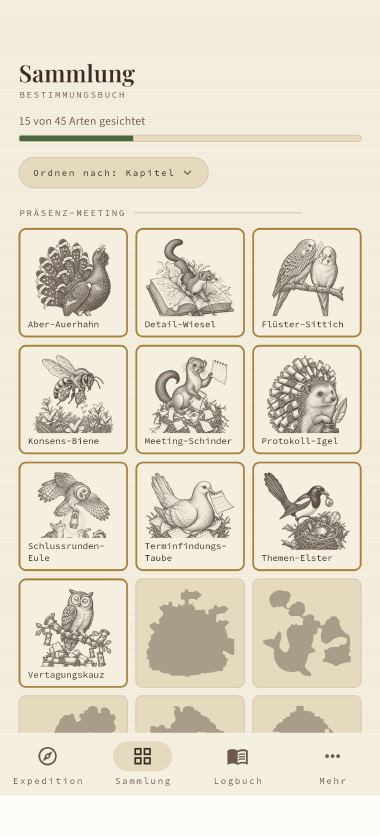
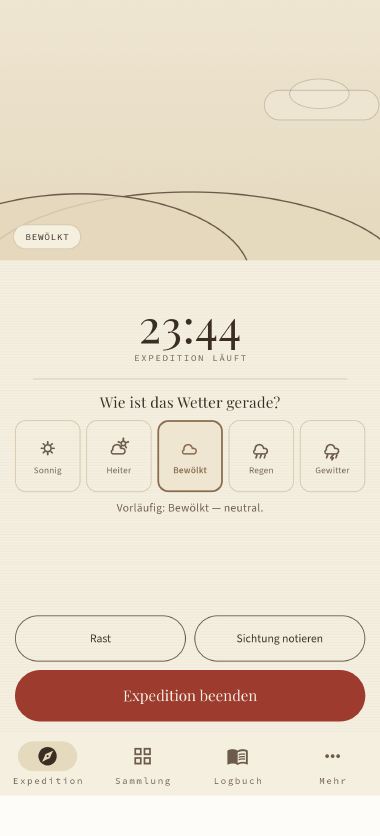
Setze den Text im Blocksatz und zeige alle acht Bildschirmfotos
Das Karussell kommt ohne eine Zeile JavaScript aus: waagerechtes Scrollen mit
Einrastpunkten, darunter Sprungmarken zum Blaettern. Das naechste Bild lugt
herein, damit sichtbar ist, dass es weitergeht.

Der Blocksatz bekommt automatische Silbentrennung — ohne sie reisst der
schmale Satzspiegel auf dem Telefon Loecher zwischen die Woerter.

Claude-Session: https://claude.ai/code/session_011auaGZZNP5bfuaoQAAsWgF

diff --git a/index.html b/index.html
@@ -52,11 +52,24 @@
   schon. Karikiert wird dabei ausschließlich Verhalten in Gesprächen — nie
   Menschen.</p>
 
-  <div class="schuesse">
-    <img src="bilder/schuss-1.png" alt="Startbildschirm mit Kompass zum Starten einer Expedition" width="380" height="836" loading="lazy">
-    <img src="bilder/schuss-2.png" alt="Die Sammlung mit freigeschalteten Arten" width="380" height="836" loading="lazy">
-    <img src="bilder/schuss-3.png" alt="Der Wetterbericht im Logbuch mit Wochendiagramm" width="380" height="836" loading="lazy">
+  <!-- Karussell ohne Skript: waagerechtes Scrollen mit Einrastpunkten
+       (scroll-snap). Die Zahlen darunter sind gewoehnliche Sprungmarken —
+       damit laesst es sich auch mit der Maus bedienen, ohne dass die Seite
+       eine Zeile JavaScript braucht. -->
+  <div class="schuesse" role="group" aria-label="Bildschirmfotos">
+    <img id="s1" src="bilder/schuss-1.png" alt="Startbildschirm mit dem Kompass, der eine Expedition beginnt" width="380" height="836" loading="lazy">
+    <img id="s2" src="bilder/schuss-2.png" alt="Laufende Expedition mit Timer, Wetterskala und notierten Sichtungen" width="380" height="836" loading="lazy">
+    <img id="s3" src="bilder/schuss-3.png" alt="Erste Frage der Bestimmung: In welchem Gesprächsformat tritt die Person auf?" width="380" height="836" loading="lazy">
+    <img id="s4" src="bilder/schuss-4.png" alt="Ergebnis der Bestimmung mit Illustration und lateinischem Namen der Art" width="380" height="836" loading="lazy">
+    <img id="s5" src="bilder/schuss-5.png" alt="Die Sammlung: freigeschaltete Arten neben noch verdeckten Silhouetten" width="380" height="836" loading="lazy">
+    <img id="s6" src="bilder/schuss-6.png" alt="Artseite mit Steckbrief, Ruflauten und Umgangsstrategien" width="380" height="836" loading="lazy">
+    <img id="s7" src="bilder/schuss-7.png" alt="Wetterbericht im Logbuch mit Wochendiagramm und Kennzahlen" width="380" height="836" loading="lazy">
+    <img id="s8" src="bilder/schuss-8.png" alt="Erweiterte Statistik: Wetterfühligkeit nach Art" width="380" height="836" loading="lazy">
   </div>
+
+  <nav class="punkte" aria-label="Bildschirmfotos durchblättern">
+    <a href="#s1">1</a><a href="#s2">2</a><a href="#s3">3</a><a href="#s4">4</a><a href="#s5">5</a><a href="#s6">6</a><a href="#s7">7</a><a href="#s8">8</a>
+  </nav>
 
   <ul class="links">
     <li><span class="bald">Demnächst im Google Play Store</span></li>

diff --git a/stil.css b/stil.css
@@ -20,6 +20,16 @@ body {
   line-height: 1.65;
 }
 
+/* Blocksatz mit Silbentrennung. Ohne die Trennung riss der schmale Satzspiegel
+   auf dem Telefon Loecher zwischen die Woerter. */
+p {
+  text-align: justify;
+  hyphens: auto;
+  -webkit-hyphens: auto;
+}
+
+.unterzeile, .stand, .punkte, footer { text-align: left; hyphens: manual; }
+
 main { max-width: 44rem; margin: 0 auto; }
 
 header { border-bottom: 1px solid var(--rule); padding-bottom: 14px; margin-bottom: 28px; }
@@ -108,22 +118,59 @@ nav a { margin-right: 18px; }
   color: var(--ink-muted);
 }
 
-/* Waagerecht scrollbar statt gestaucht: Auf schmalen Geräten bleiben die
-   Bildschirmfotos lesbar gross. */
+/* Karussell ohne Skript. Der Streifen scrollt waagerecht und rastet an den
+   Bildern ein; das naechste lugt bewusst herein, damit man sieht, dass es
+   weitergeht. Sanftes Scrollen macht die Sprungmarken darunter zur Blaetter-
+   Bedienung. Wer Bewegung reduziert hat, bekommt harte Spruenge statt Gleiten. */
 .schuesse {
   display: flex;
   gap: 14px;
-  margin: 22px 0;
+  margin: 22px 0 10px;
   overflow-x: auto;
-  padding-bottom: 6px;
+  padding-bottom: 8px;
+  scroll-snap-type: x mandatory;
+  scroll-behavior: smooth;
+  scrollbar-width: thin;
+  scrollbar-color: var(--rule) transparent;
 }
 
 .schuesse img {
   flex: 0 0 auto;
-  width: 190px;
+  width: 210px;
   height: auto;
   border: 1px solid var(--rule);
   border-radius: 10px;
+  scroll-snap-align: center;
+}
+
+/* Sprungmarken als Blaetter-Bedienung. Keine echten Knoepfe, damit die Seite
+   ohne JavaScript auskommt — Tastatur und Vorleseprogramme kommen mit Links
+   trotzdem zurecht. */
+.punkte {
+  display: flex;
+  flex-wrap: wrap;
+  gap: 8px;
+  margin-bottom: 26px;
+}
+
+.punkte a {
+  display: inline-flex;
+  align-items: center;
+  justify-content: center;
+  min-width: 30px;
+  min-height: 30px;
+  border: 1px solid var(--rule);
+  border-radius: 999px;
+  font-family: ui-monospace, "Courier New", monospace;
+  font-size: 13px;
+  text-decoration: none;
+  color: var(--ink-muted);
+}
+
+.punkte a:hover, .punkte a:focus { border-color: var(--seal); color: var(--seal); }
+
+@media (prefers-reduced-motion: reduce) {
+  .schuesse { scroll-behavior: auto; }
 }
 
 .links { list-style: none; padding: 0; margin: 18px 0 0; }
